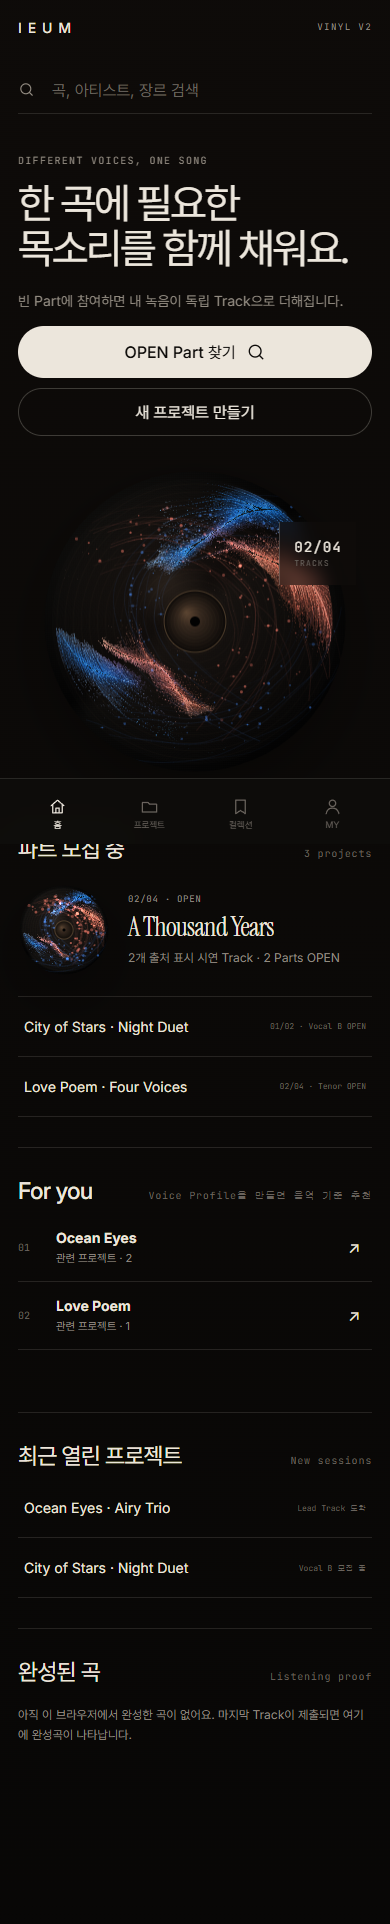
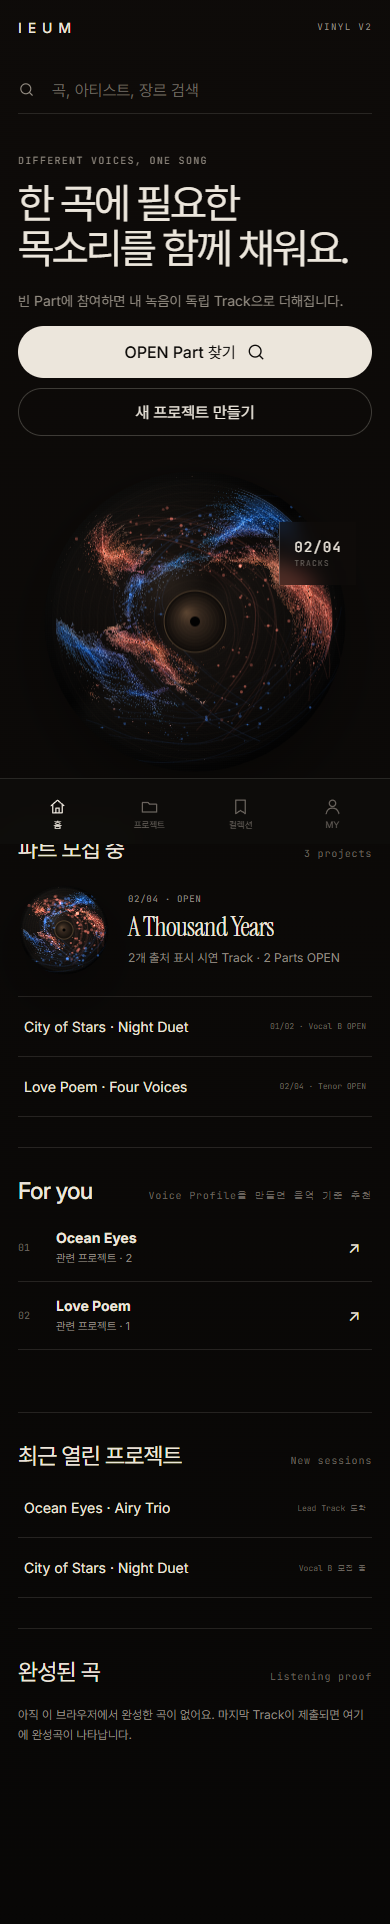
Refine reference texture density and turbulence

Changed region(s): [[0.1231, 0.2495, 0.8615, 0.3742], [0.0615, 0.4366, 0.2769, 0.499]]

diff --git a/src/App.jsx b/src/App.jsx
@@ -208,14 +208,14 @@ function ResonanceRecord({ active = [true, false, true, false], layers = [], act
             if(delta){if(max===r)hue=60*(((g-b)/delta)%6);else if(max===g)hue=60*((b-r)/delta+2);else hue=60*((r-g)/delta+4);if(hue<0)hue+=360}
             const visible=max>.16&&a>0
             const matches=layerIndex===0?visible&&hue>=205&&hue<265&&saturation>.3:layerIndex===1?visible&&(hue<18||hue>=342)&&saturation>.32:layerIndex===2?visible&&hue>=28&&hue<72&&saturation>.16&&max>.28:visible&&hue>=145&&hue<205&&saturation>.25
-            if(matches){layerPixels.data[pixel]=sourcePixels.data[pixel];layerPixels.data[pixel+1]=sourcePixels.data[pixel+1];layerPixels.data[pixel+2]=sourcePixels.data[pixel+2];layerPixels.data[pixel+3]=Math.round(a*Math.min(1,.55+max*.72))}
+            if(matches){layerPixels.data[pixel]=sourcePixels.data[pixel];layerPixels.data[pixel+1]=sourcePixels.data[pixel+1];layerPixels.data[pixel+2]=sourcePixels.data[pixel+2];layerPixels.data[pixel+3]=Math.round(a*Math.min(1,.84+max*.34))}
           }
           layerContext.putImageData(layerPixels,0,0);referenceLayers[layerIndex]=layerCanvas
         }
         drawParticleRecord(performance.now())
       }
       referenceImage.onload=prepareReferenceLayers
-      referenceImage.src='/resonance-reference-v1.png'
+      referenceImage.src='/resonance-reference-v2.png'
       let animationFrame=0,lastFrame=0
       const drawParticleRecord=(now=0)=>{
         const size=canvas.clientWidth
@@ -231,6 +231,8 @@ function ResonanceRecord({ active = [true, false, true, false], layers = [], act
           const radius=discRadius*(.22+groove*.00765)
           ctx.beginPath();ctx.arc(c,c,radius,0,Math.PI*2);ctx.strokeStyle=`rgba(188,164,136,${groove%7===0?.032:.012})`;ctx.lineWidth=Math.max(1,ratio*.32);ctx.stroke()
         }
+        const completeTexture=state==='complete'&&referenceImage.complete&&referenceLayers.length===4
+        if(completeTexture){ctx.save();ctx.globalCompositeOperation='source-over';ctx.globalAlpha=.92;ctx.drawImage(referenceImage,c-discRadius,c-discRadius,discRadius*2,discRadius*2);ctx.restore()}
         const liveAmount=state==='recording'?Math.min(1,Math.max(0,levelRef.current))*1.4:0
         slots.forEach((layer,layerIndex)=>{
           if(!layer)return
@@ -242,7 +244,7 @@ function ResonanceRecord({ active = [true, false, true, false], layers = [], act
           const turbulence=Math.max(.2,Math.min(1.4,Number(layer.turbulence??.72)))
           const live=layerIndex===activePartIndex?liveAmount:0
           const textureLayer=referenceLayers[layerIndex]
-          if(textureLayer){
+          if(textureLayer&&!completeTexture){
             const phase=Number(layer.phase??0),featureScale=.985+(baseRadius-.55)*.045+live*.012
             ctx.save();ctx.translate(c,c);ctx.rotate((phase%1-.5)*.035+(state==='recording'&&layerIndex===activePartIndex?now*.000025*live:0));ctx.scale(featureScale,featureScale)
             ctx.globalCompositeOperation='lighter';ctx.globalAlpha=Math.min(1,.7+energy*.28+live*.18);ctx.drawImage(textureLayer,-discRadius,-discRadius,discRadius*2,discRadius*2);ctx.restore()
